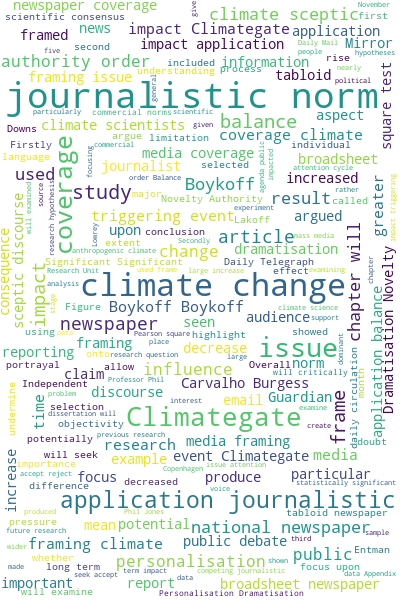
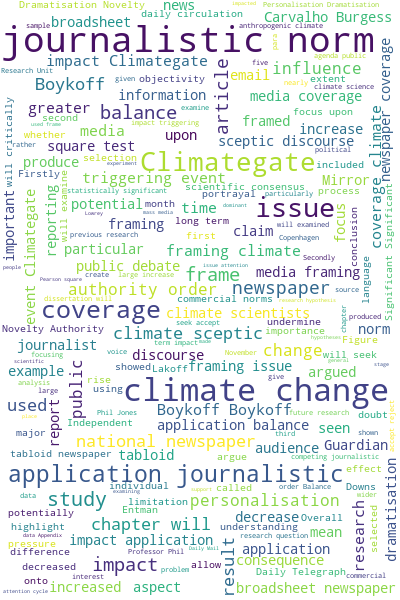
stopwords added. Also shaped cloud erroring

diff --git a/word cloud generator with boundary map.py b/word cloud generator with boundary map.py
@@ -1,7 +1,47 @@
 from wordcloud import WordCloud, STOPWORDS, ImageColorGenerator
 import matplotlib.pyplot as plt
 from PIL import Image
-import os
+import numpy as np
 from scipy.ndimage import gaussian_gradient_magnitude
+import os
 
+directory = os.path.dirname(__file__) if "__file__" in locals() else os.getcwd()
+#load text
+textfile = open(os.path.join(directory, r'Text\BA - Political Transformation and the mass media.txt'), encoding="utf-8").read()
+
+# load image
+image = np.array(Image.open(os.path.join(directory,r'Pictures\Moscow test.png')))
+
+# subsample by a factor of 3
+image = image[::3, ::3]
+
+# create mask
+image_mask = image.copy()
+print (len(image_mask.shape))
+print(image_mask)
+image_mask[image_mask.sum(axis=2) == 0] = 255
+
+#edge detection
+edges = np.mean([gaussian_gradient_magnitude(image[:, :, i] / 255., 2) for i in range(3)], axis=0)
+image_mask[edges > 0.8] = 255
+
+cloud = WordCloud(
+    mode = "RGBA",
+    background_color=None,
+    mask=image_mask,
+    height = 400,
+    width = 600,
+    min_word_length= 4,
+    max_words= 200
+)
+cloud.generate(textfile)
+
+image_colours = ImageColorGenerator(image)
+cloud.recolor(color_func=image)
+plt.figure(figsize=(10, 10))
+plt.imshow(cloud, interpolation="bilinear")
+
+
+output = r'WordClouds\undergrad Dissertation.png' 
+cloud.to_file(output)
 

diff --git a/word cloud generator.py b/word cloud generator.py
@@ -1,9 +1,9 @@
 import matplotlib.pyplot as plt
 from wordcloud import WordCloud, STOPWORDS
 
-textfile = 'Text\Journalistic norms.txt'
+textfile = r'Text\Corbyn Conference Speeches 2015-2019.txt'
 
-output = 'WordClouds\Masters Dissertation.png' 
+output = r'WordClouds\Corbyn Conference Speech Output.png' 
 
 words = open(textfile, mode = 'r', encoding='utf-8').read()
 
@@ -12,9 +12,10 @@ removed_words = STOPWORDS
 cloud = WordCloud(
     mode = "RGBA",
     background_color=None,
+    stopwords=removed_words,
     height = 600,
     width = 400,
-    min_word_length= 4,
+    min_word_length= 3,
     max_words= 200
 )
 
